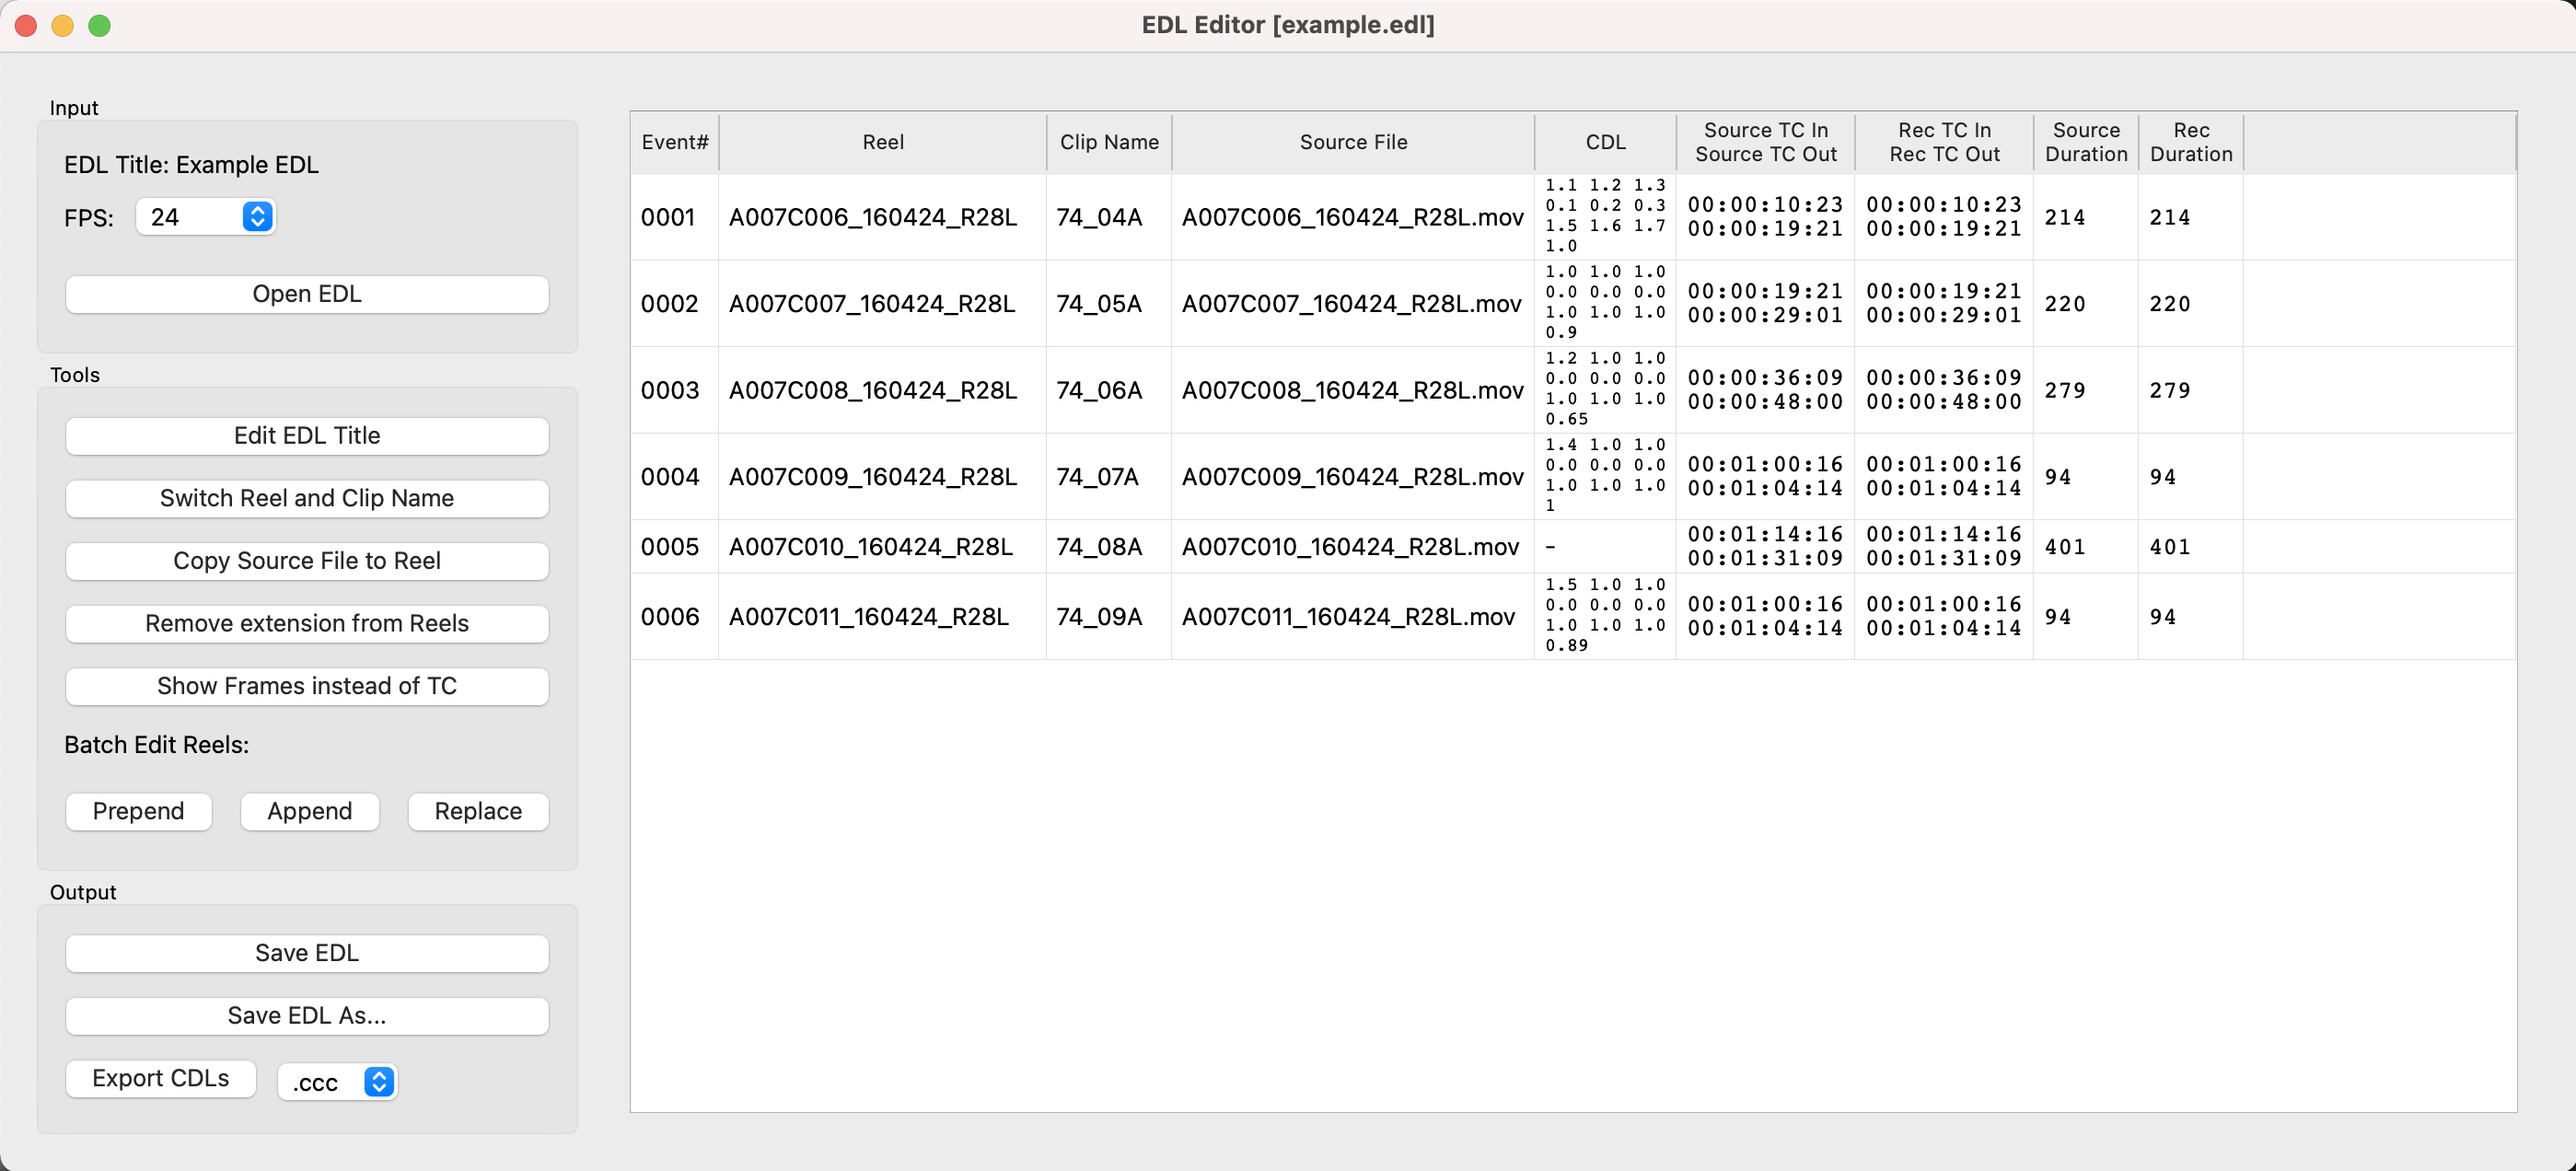
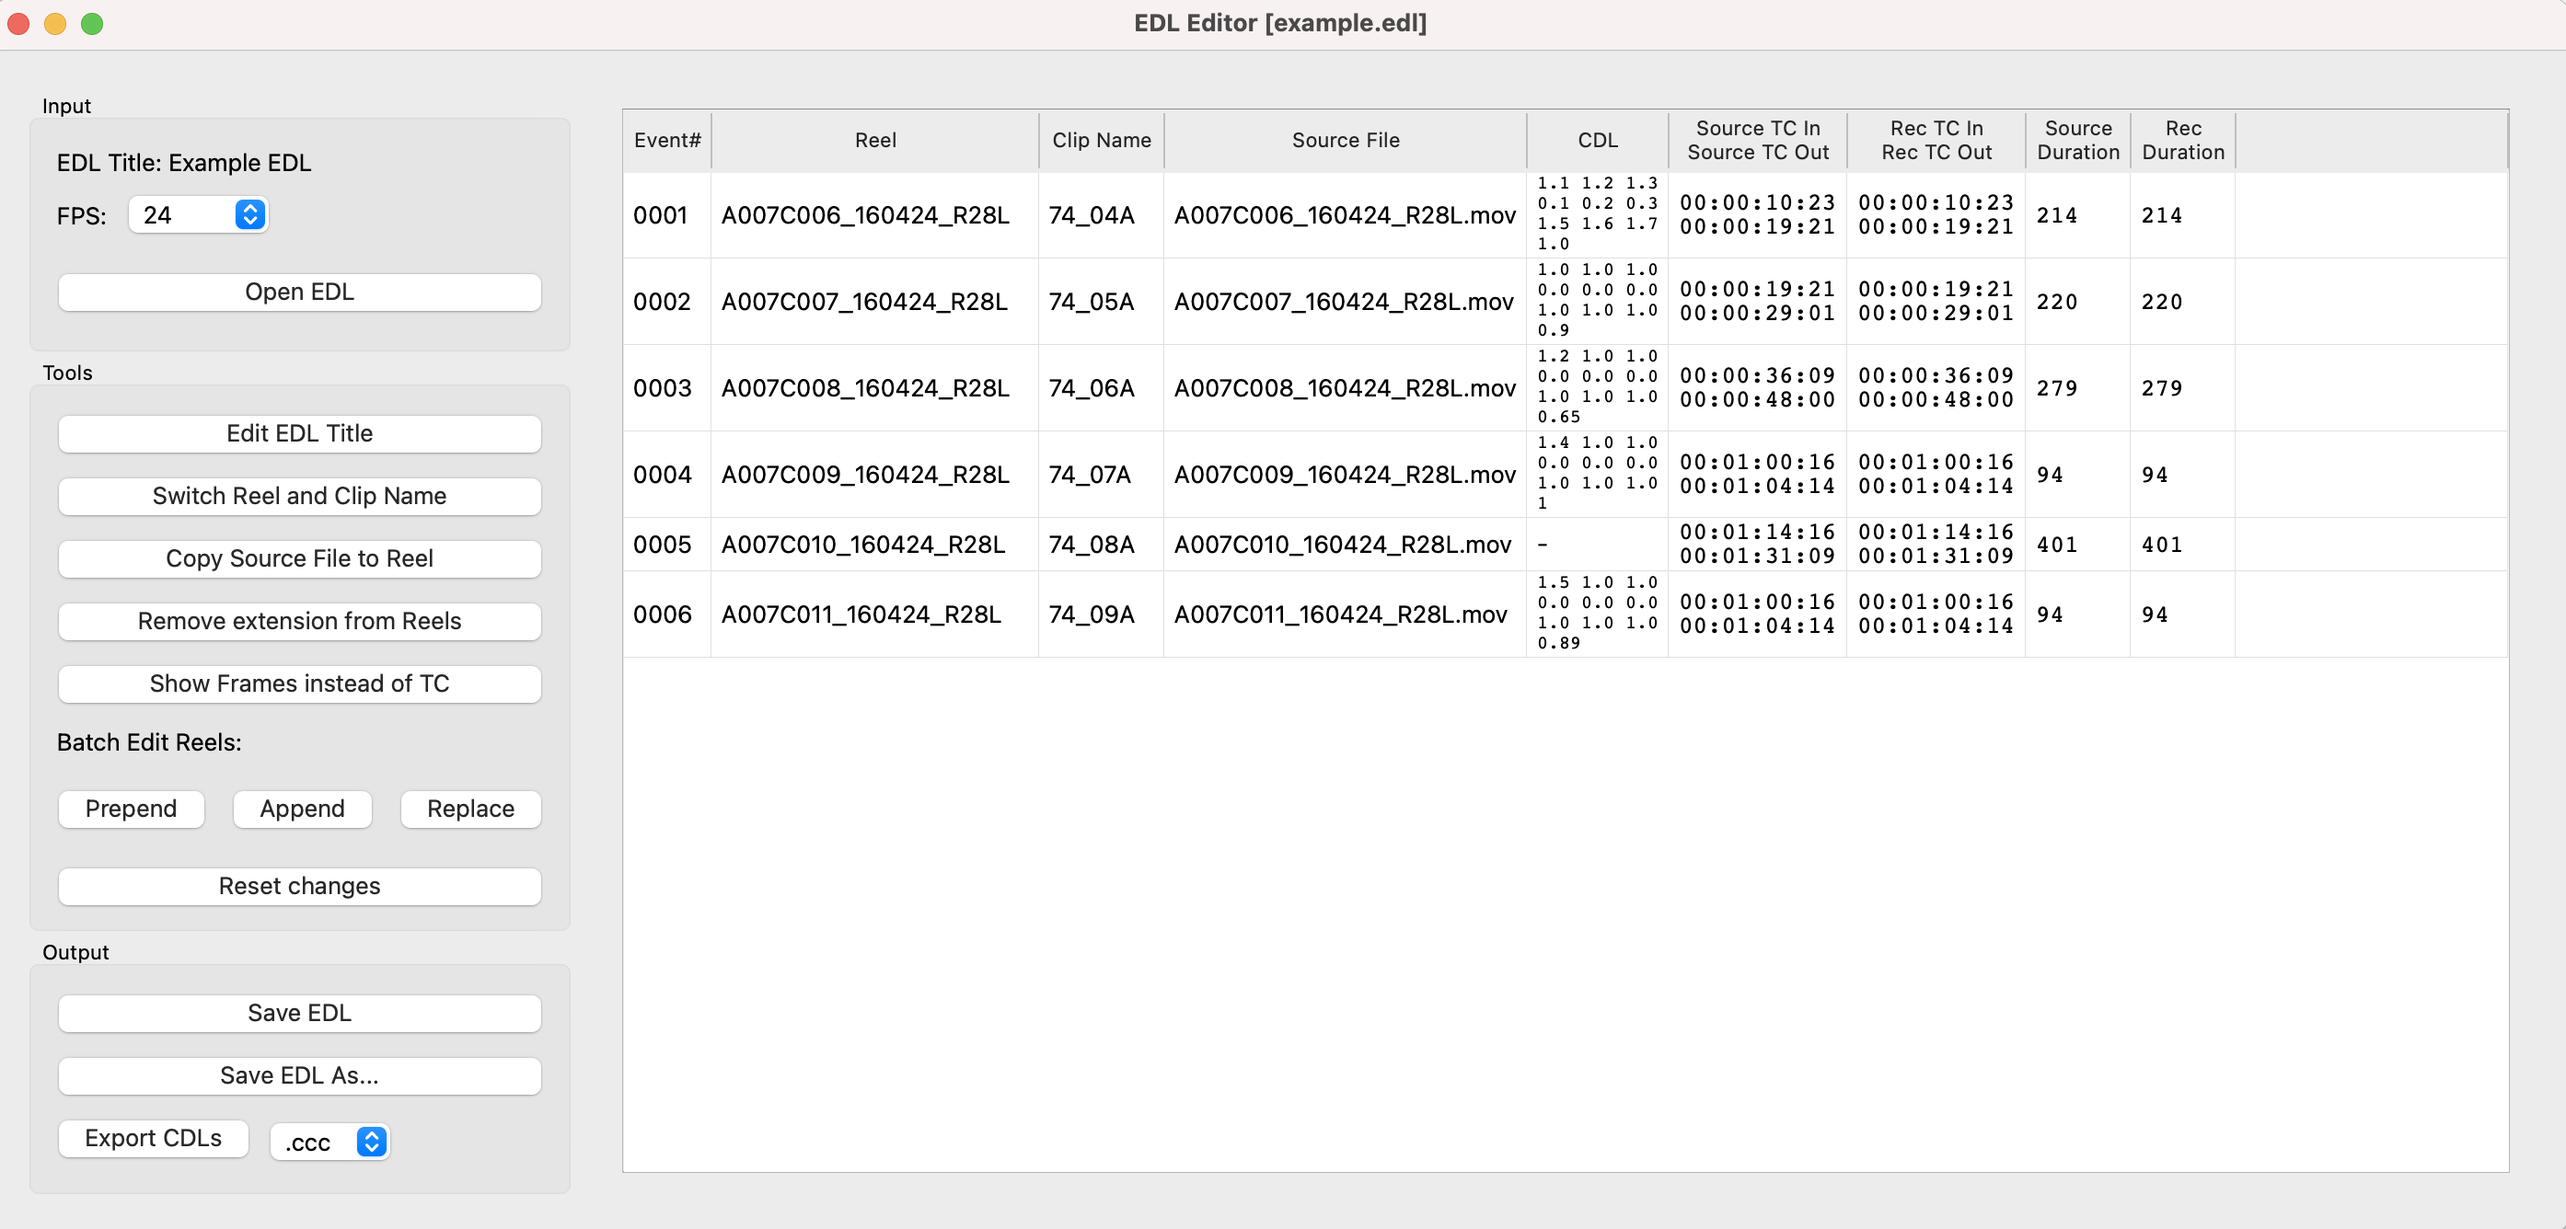
Add tool: reset changes

diff --git a/py_edl_editor/gui.py b/py_edl_editor/gui.py
@@ -120,6 +120,11 @@ class PyEdlEditorApp(QtWidgets.QWidget):
         append_reels_button.clicked.connect(self.controller.append_reels)
         replace_reels_button.clicked.connect(self.controller.replace_reels)
 
+        # Reset changes
+        reset_changes_button = QtWidgets.QPushButton("Reset changes", self)
+        tools_layout_left.addRow(reset_changes_button)
+        reset_changes_button.clicked.connect(self.controller.reset_changes)
+
         # Output Group on the left
         output_group_box = QtWidgets.QGroupBox("Output")
         

diff --git a/py_edl_editor/gui_controller.py b/py_edl_editor/gui_controller.py
@@ -68,6 +68,10 @@ class GuiController(object):
         )[0]
         self.update_edl_view()
 
+    def reset_changes(self):
+        """Reset all changes and go back to last saved state."""
+        self.update_edl_view()
+
     def edit_edl_title(self):
         """Update the EDL title."""
         reply = QtWidgets.QInputDialog.getText(
